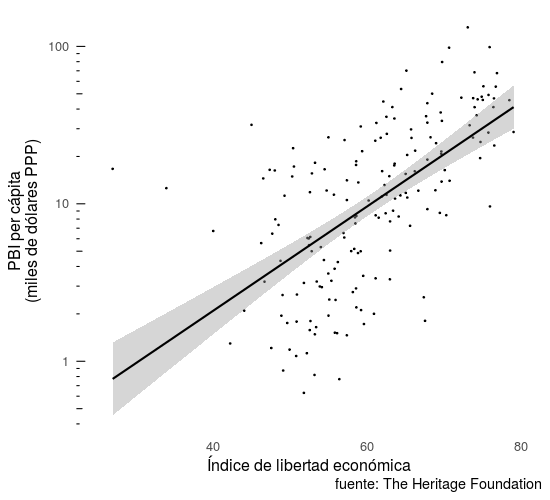
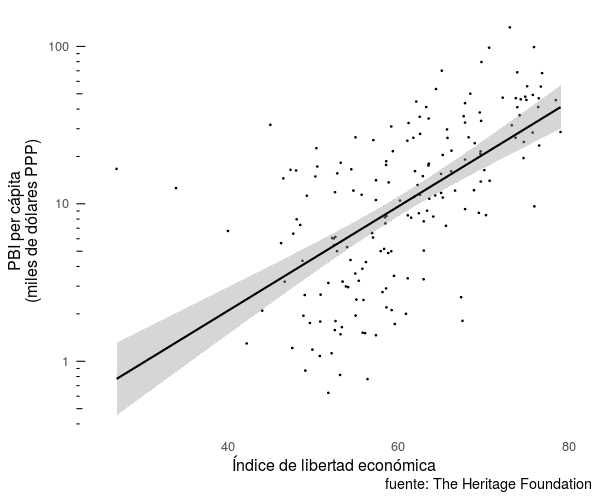
agrego gráfico a libertad económica

diff --git a/indice-libertad-economica/index.html b/indice-libertad-economica/index.html
@@ -62,7 +62,7 @@
 
 
   <meta property="og:type" content="article">
-  <meta property="article:published_time" content="2017-06-25T00:00:00-03:00">
+  <meta property="article:published_time" content="2017-06-28T00:00:00-03:00">
 
 
 
@@ -352,7 +352,7 @@
   <article class="page" itemscope itemtype="http://schema.org/CreativeWork">
     <meta itemprop="headline" content="Índice de libertad económica: No significa lo que creés que significa.">
     <meta itemprop="description" content="O el índice de libertad económica no mide la libertad económica, o la libertad económica no es lo que creés que es.">
-    <meta itemprop="datePublished" content="June 25, 2017">
+    <meta itemprop="datePublished" content="June 28, 2017">
     
 
     <div class="page__inner-wrap">
@@ -428,6 +428,10 @@
 
 <p>La correlación entre la mayoría de los subíndices es positiva y grande, salvo para los relacionados con el tamaño del estado que ¡incluso llega a ser negativa! El problema del indicador de Salud Fiscal también aparece a la vista: está más relacionado con los indicadores del Estado de Derecho que con el del Tamaño del Gobierno.</p>
 
+<p>Para tener una idea de qué significa esto, podemos ver los ejemplos de países con un alto gasto gubernamental (lo que implica un <strong>bajo puntaje</strong> en este factor) pero alta libertad económica. Y ver que este pequeño problemita justamente tiene que ver con países nordicos con altísima calidad de vida y desarrollo humano. Esto no es una gilada metodológica, es algo que va a la raiz de cómo organizar un Estado para el bienestar de sus habitantes.</p>
+
+<p class="align-center"><img src="/figure/indice-libertad-ejemplo-1.png" alt="plot of chunk ejemplo" /></p>
+
 <p>Hay dos formas de interpretar el resultado. Si asumimos que el “índice de libertad económica” es un buen indicador de la “libertad económica” (y que el índice del tamaño del estado es un buen indicador del tamaño del estado), entonces estamos obligados a concluir que, en contra de lo que dice Heritage, el tamaño del estado <em>no afecta</em> significativamente la libertad económica de un país. Por otro lado, si planteamos como cierto que el tamaño del estado tiene un efecto importante en la libertad económica, entonces tenemos que concluir que el índice de Heritage <em>no es un buen indicador</em> de la libertad económica.</p>
 
 <p>En una especie de <a href="https://es.wikipedia.org/wiki/Reductio_ad_absurdum">argumento por el absurdo</a> acabamos de demostrar la inconsistencia del índice de The Heritage Foundation. El índice del Fraser Institute es similar y tiene los mismos problemas, por lo que no tiene sentido analizarlo por separado.</p>
@@ -467,7 +471,7 @@
 
 
         
-          <p class="page__date"><strong><i class="fa fa-fw fa-calendar" aria-hidden="true"></i> Actualizado:</strong> <time datetime="2017-06-25T00:00:00-03:00">June 25, 2017</time></p>
+          <p class="page__date"><strong><i class="fa fa-fw fa-calendar" aria-hidden="true"></i> Actualizado:</strong> <time datetime="2017-06-28T00:00:00-03:00">June 28, 2017</time></p>
         
       </footer>
 

diff --git a/gracias_por_coger/index.html b/gracias_por_coger/index.html
@@ -521,21 +521,22 @@
   <article class="archive__item" itemscope itemtype="http://schema.org/CreativeWork">
     
       <div class="archive__item-teaser">
-        <a href="https://legosalogos.github.io/la-iglesia-ofrece-argumentos-contra-el/" rel="permalink"><img src=
+        <a href="https://legosalogos.github.io/indice-libertad-economica/" rel="permalink"><img src=
           
-            "http://lh3.ggpht.com/_ayOut9U6i70/S98hRzdoFGI/AAAAAAAAA7c/uRnKQPrnYzI/s72-c/think_of_the_children_thumb.jpg?imgmax=800"
+            "https://legosalogos.github.io/assets/images/libertad-econ-small.jpg"
           
           alt=""></a>
       </div>
     
     <h1 class="archive__item-title" itemprop="headline">
       
-        <a href="https://legosalogos.github.io/la-iglesia-ofrece-argumentos-contra-el/" rel="permalink">La Iglesia ofrece argumentos contra el matrimonio homosexual.
+        <a href="https://legosalogos.github.io/indice-libertad-economica/" rel="permalink">Índice de libertad económica: No significa lo que creés que significa.
 </a>
       
     </h1>
     
-    <p class="archive__item-excerpt" itemprop="description">En AICA.org hacen un resumen de los argumentos expuestos por la Conferencia Episcopal Argentina en conjunción con la Universidad Católica Argentina. Estos bastiones del fundamentalismo católico y l...</p>
+    <p class="archive__item-excerpt" itemprop="description">O el índice de libertad económica no mide la libertad económica, o la libertad económica no es lo que creés que es.
+</p>
   </article>
 </div>
         

diff --git a/2016-temperatura/index.html b/2016-temperatura/index.html
@@ -560,21 +560,22 @@
   <article class="archive__item" itemscope itemtype="http://schema.org/CreativeWork">
     
       <div class="archive__item-teaser">
-        <a href="https://legosalogos.github.io/un-premio-nobel-mas-en-la-lista-de/" rel="permalink"><img src=
+        <a href="https://legosalogos.github.io/indice-libertad-economica/" rel="permalink"><img src=
           
-            "http://lh4.ggpht.com/-SLSn2aPfnrY/TnFbtgmUmhI/AAAAAAAABrQ/yUvBKqmiAzA/s72-c/Quelccaya_thumb%25255B1%25255D.jpg?imgmax=800"
+            "https://legosalogos.github.io/assets/images/libertad-econ-small.jpg"
           
           alt=""></a>
       </div>
     
     <h1 class="archive__item-title" itemprop="headline">
       
-        <a href="https://legosalogos.github.io/un-premio-nobel-mas-en-la-lista-de/" rel="permalink">Un Premio Nobel más en la lista de pseudocientíficos.
+        <a href="https://legosalogos.github.io/indice-libertad-economica/" rel="permalink">Índice de libertad económica: No significa lo que creés que significa.
 </a>
       
     </h1>
     
-    <p class="archive__item-excerpt" itemprop="description">En el mismo mes en la que la extensión de hielo del Ártico rompió records mínimos de área cubierta de hielo, volumen de hielo y posiblemente de extensión (que no es lo mismo que área), Ivar Giaever...</p>
+    <p class="archive__item-excerpt" itemprop="description">O el índice de libertad económica no mide la libertad económica, o la libertad económica no es lo que creés que es.
+</p>
   </article>
 </div>
         

diff --git a/tierra-plana/index.html b/tierra-plana/index.html
@@ -615,21 +615,21 @@
   <article class="archive__item" itemscope itemtype="http://schema.org/CreativeWork">
     
       <div class="archive__item-teaser">
-        <a href="https://legosalogos.github.io/distancia-luna-eclipse/" rel="permalink"><img src=
+        <a href="https://legosalogos.github.io/indice-libertad-economica/" rel="permalink"><img src=
           
-            "https://legosalogos.github.io/assets/images/teaser_luna.jpg"
+            "https://legosalogos.github.io/assets/images/libertad-econ-small.jpg"
           
           alt=""></a>
       </div>
     
     <h1 class="archive__item-title" itemprop="headline">
       
-        <a href="https://legosalogos.github.io/distancia-luna-eclipse/" rel="permalink">Cómo calcular la distancia a la Luna usando sólo una foto
+        <a href="https://legosalogos.github.io/indice-libertad-economica/" rel="permalink">Índice de libertad económica: No significa lo que creés que significa.
 </a>
       
     </h1>
     
-    <p class="archive__item-excerpt" itemprop="description">Con un poco de geometría y sin naves espaciales podemos calcular la distancia a nuestro satélite natural.
+    <p class="archive__item-excerpt" itemprop="description">O el índice de libertad económica no mide la libertad económica, o la libertad económica no es lo que creés que es.
 </p>
   </article>
 </div>
